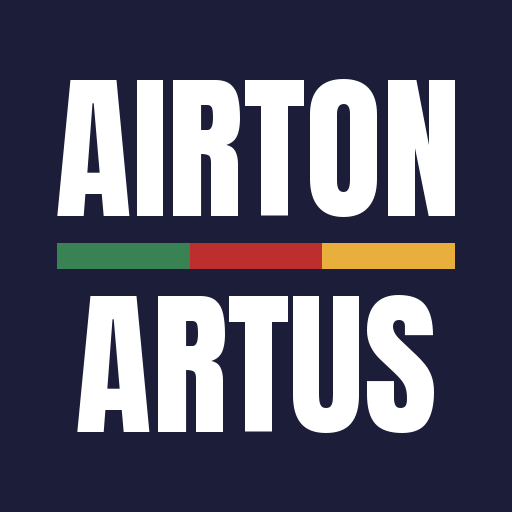
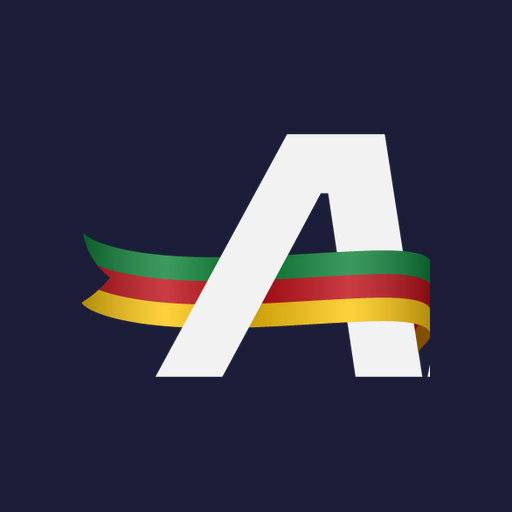
feat(brand): ícones do app a partir do novo KV (mark do 'A' + faixa)
- Novo ícone = o 'A' do logo com a faixa tricolor, branco sobre navy —
  legível de 16px ao 1024 (o wordmark viraria borrão no favicon).
- Regenerados: favicon 16/32/48/64 + .ico, apple-touch, pwa 192/512,
  pwa-maskable-512 (respiro p/ o círculo adaptive), icon-1024 e ícones de loja.
- index.html: cache-bust ?v=3 -> ?v=4.

diff --git a/frontend/index.html b/frontend/index.html
@@ -2,10 +2,10 @@
 <html lang="pt-BR">
   <head>
     <meta charset="UTF-8" />
-    <link rel="icon" href="/favicon.ico?v=3" sizes="any" />
-    <link rel="icon" type="image/png" sizes="32x32" href="/favicon-32.png?v=3" />
-    <link rel="icon" type="image/png" sizes="16x16" href="/favicon-16.png?v=3" />
-    <link rel="apple-touch-icon" href="/apple-touch-icon.png?v=3" />
+    <link rel="icon" href="/favicon.ico?v=4" sizes="any" />
+    <link rel="icon" type="image/png" sizes="32x32" href="/favicon-32.png?v=4" />
+    <link rel="icon" type="image/png" sizes="16x16" href="/favicon-16.png?v=4" />
+    <link rel="apple-touch-icon" href="/apple-touch-icon.png?v=4" />
     <meta name="viewport" content="width=device-width, initial-scale=1.0, viewport-fit=cover" />
     <meta name="theme-color" content="#1B1D39" />
     <title>Airton Artus · Pré-candidato a Deputado Estadual · RS</title>
